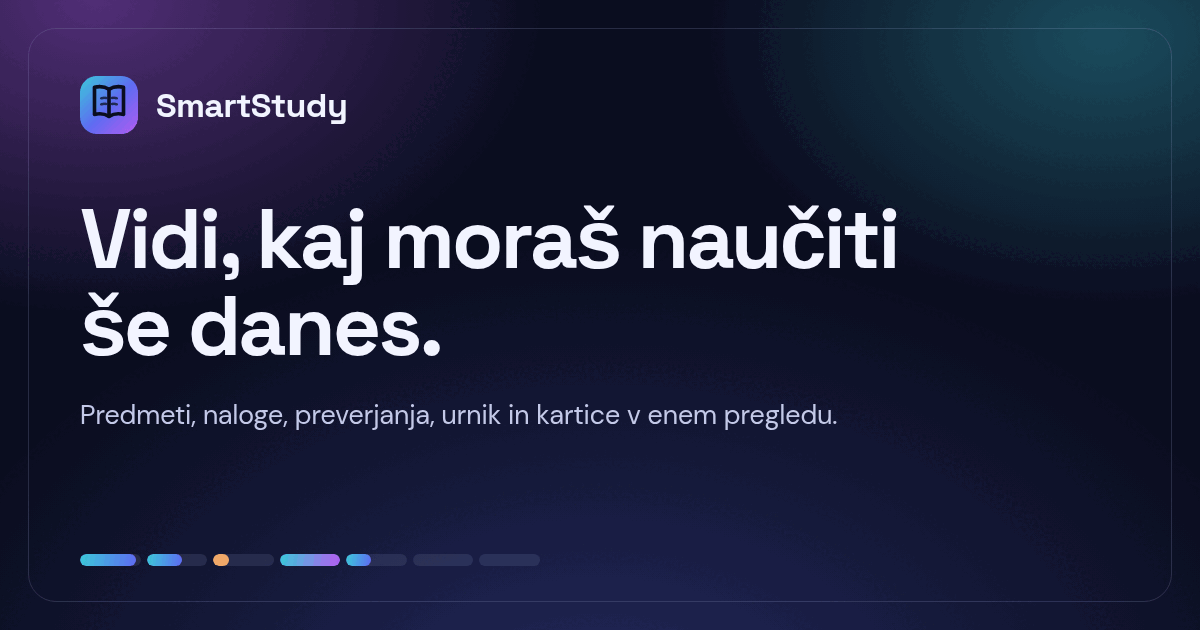
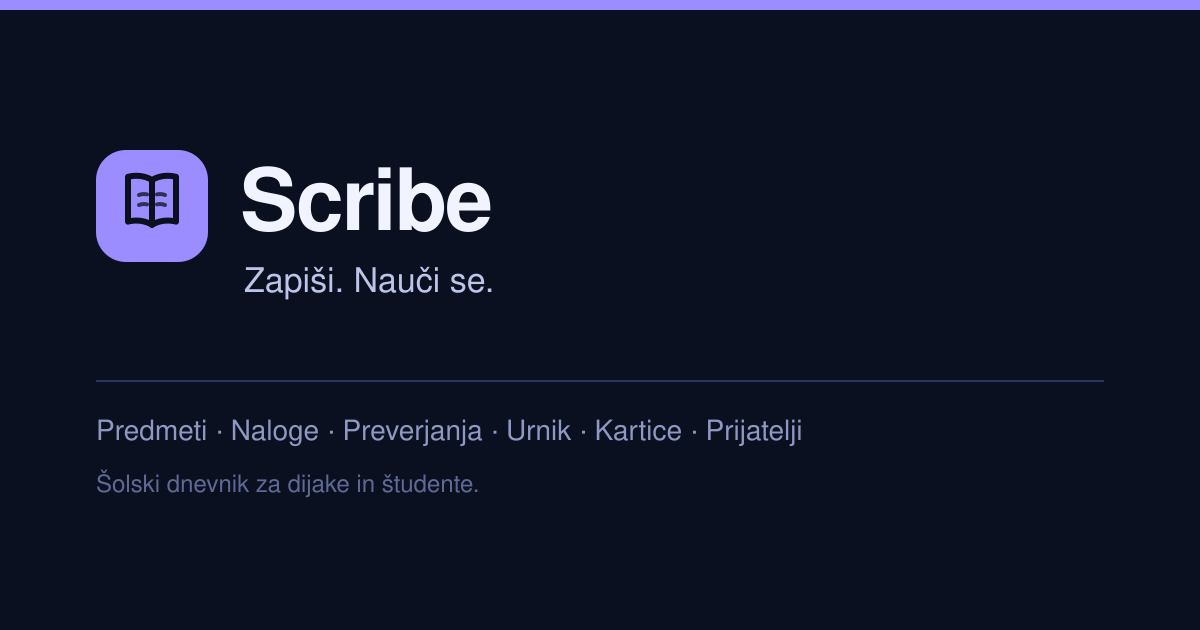
Posodobi SEO in pravne strani za Scribe
- Nova og slika, favicon in ploščica z ravnim ink barvami.
- Meta, kanonski naslov in statični Open Graph na vstopni strani.
- Pravilnik o zasebnosti imenuje obdelovalce, prijateljske kode in brisanje.

diff --git a/src/pages/PrivacyPage.jsx b/src/pages/PrivacyPage.jsx
@@ -14,7 +14,7 @@ export default function PrivacyPage() {
       <LegalProse
         title="Pravilnik o zasebnosti"
         intro="Ta pravilnik pojasnjuje, katere podatke Scribe zbira, zakaj jih zbira in kakšne pravice imaš do njih."
-        updated="21. oktober 2026"
+        updated="22. oktober 2026"
         note="TODO(vsebina): Manjkajo podatki o operaterju, kontaktni e-pošti in regiji hrambe podatkov. Besedilo je pripravljeno, a še ni pravno pregledano."
       >
         <h2>Katere podatke zbiram</h2>
@@ -23,6 +23,12 @@ export default function PrivacyPage() {
           vpišeš. V svoj profil lahko dodaš tudi šolo. Ko začneš uporabljati aplikacijo,
           shranjuješ predmete, naloge, preverjanja, kartice, zapise fokus sej in nastavitve
           videza.
+        </p>
+        <p>
+          Vsak račun dobi tudi svojo <strong>prijateljsko kodo</strong> — šest znakov, s
+          katerimi te sošolci najdejo. Kode drugih uporabnikov Scribe ne izpiše; vidiš
+          le svojo. Ime in začetna črka tistih, ki iščeš sošolca, sta vidna drugim
+          prijavljenim uporabnikom, in sicer samo takrat, ko iščeš po imenu.
         </p>
         <p>
           Gesla se nikoli ne shranjujejo v oblaku v čitljivi obliki — za njih skrbi ponudnik
@@ -62,14 +68,17 @@ export default function PrivacyPage() {
         <h2>Hramba in brisanje</h2>
         <p>
           Podatki ostanejo v tvojem računu, dokler jih ne izbrišeš. Predmete, naloge,
-          preverjanja in kartice izbrišeš v aplikaciji, svoj račun pa lahko odpraviš tako, da
-          izbrišeš svojo uporabniško podatkovno bazo v Firebase.
+          preverjanja in kartice izbrišeš v aplikaciji. Svoj račun odpraviš v Nastavitvah v
+          razdelku »Nevarno območje«: Scribe tedaj izbriše tvoje predmete, naloge,
+          preverjanja, kartice, zapise fokusa, zahteve za prijateljstvo in tvoja sporočila
+          v klepetu ter odjavi tvoj račun. Tega ni mogoče razveljaviti.
         </p>
 
-        <h2>Vaše pravice</h2>
+        <h2>Tvoje pravice</h2>
         <p>
           Imaš pravico do dostopa do svojih podatkov, do njihove poprave in do brisanja.
-          Vse podatke lahko tudi izvoziš v obliki JSON — v Nastavitvah je gumb »Izvozi podatke«.
+          Vse podatke lahko tudi izvoziš v obliki JSON — v Nastavitvah je gumb »Izvozi
+          podatke«. Uvoziš jih lahko nazaj z gumbom »Uvozi podatke«.
         </p>
 
         <h2>Piškotki in sledenje</h2>

diff --git a/index.html b/index.html
@@ -10,6 +10,28 @@
       name="description"
       content="Scribe je šolski dnevnik: predmeti, naloge, preverjanja, urnik, kartice in prijatelji na enem mestu. Zapiši. Nauči se."
     />
+    <link rel="canonical" href="https://scribeslo.vercel.app/" />
+
+    <meta property="og:type" content="website" />
+    <meta property="og:site_name" content="Scribe" />
+    <meta property="og:locale" content="sl_SI" />
+    <meta property="og:title" content="Scribe — tvoj šolski dnevnik" />
+    <meta
+      property="og:description"
+      content="Predmeti, naloge, preverjanja, urnik, kartice in prijatelji na enem mestu. Zapiši. Nauči se."
+    />
+    <meta property="og:url" content="https://scribeslo.vercel.app/" />
+    <meta property="og:image" content="https://scribeslo.vercel.app/scribe-og.png" />
+    <meta property="og:image:alt" content="Scribe — tvoj šolski dnevnik" />
+
+    <meta name="twitter:card" content="summary_large_image" />
+    <meta name="twitter:title" content="Scribe — tvoj šolski dnevnik" />
+    <meta
+      name="twitter:description"
+      content="Predmeti, naloge, preverjanja, urnik, kartice in prijatelji na enem mestu."
+    />
+    <meta name="twitter:image" content="https://scribeslo.vercel.app/scribe-og.png" />
+
     <title>Scribe — tvoj šolski dnevnik</title>
   </head>
   <body>

diff --git a/src/pages/AccessibilityPage.jsx b/src/pages/AccessibilityPage.jsx
@@ -14,7 +14,7 @@ export default function AccessibilityPage() {
       <LegalProse
         title="Dostopnost"
         intro="Scribe je zasnovan tako, da ga lahko uporablja vsak dijak, dijakinja in študent — tudi z bralnikom zaslona, tipkovnico ali povečano sliko."
-        updated="21. oktober 2026"
+        updated="22. oktober 2026"
         note="TODO(vsebina): Ta izjava še ni bila pregledana po standardu WCAG 2.2 AA. Pred objavo jo preveri strokovnjak za dostopnost."
       >
         <h2>Cilj</h2>
@@ -33,6 +33,8 @@ export default function AccessibilityPage() {
           <li>Premiki in animacije se izklopijo, kadar naprava nastavi zmanjšan gibanje — samodejno ali v Nastavitvah.</li>
           <li>Ikone, ki ne sporočajo vsebine same, so označene kot okrasne; gumbi, ki niso besedilni, imajo opis za bralnik zaslona.</li>
           <li>Grafični učni pas in druge slike imajo besedilni opis, ki pove, kaj prikazujejo.</li>
+          <li>Številke, datumi, ure in prijateljske kode so zapisane v monospace pisavi in se zato preberejo v stolpcih.</li>
+          <li>Modali zajamejo fokus, zaprejo se z Esc in fokus vrnejo na gumb, ki jih je odprl.</li>
         </ul>
 
         <h2>Znane omejitve</h2>

diff --git a/src/pages/ImprintPage.jsx b/src/pages/ImprintPage.jsx
@@ -14,7 +14,7 @@ export default function ImprintPage() {
       <LegalProse
         title="Impressum"
         intro="Podatki o operaterju spletnega mesta in osebi, odgovorni za njegovo vsebino."
-        updated="21. oktober 2026"
+        updated="22. oktober 2026"
         note="TODO(vsebina): Ime operaterja, naslov, davčna številka in kontaktna e-pošta še niso določeni. Dopolni, preden objaviš."
       >
         <h2>Operater spletnega mesta</h2>
@@ -43,7 +43,8 @@ export default function ImprintPage() {
         <h2>Platforma in odločanje o pristojnosti</h2>
         <p>
           Spletno mesto je objavljeno na Vercelu in GitHub Pages. Za dostop do spletnega mesta
-          je odgovoren ponudnik gostovanja, pri katerem je mesto registrirano.
+          je odgovoren ponudnik gostovanja, pri katerem je mesto registrirano. Podatke v
+          oblaku obdeluje Google Firebase.
         </p>
       </LegalProse>
     </SiteShell>

diff --git a/src/hooks/useSeo.js b/src/hooks/useSeo.js
@@ -48,7 +48,7 @@ export function useSeo({ title, description = SITE_DESCRIPTION, path = '/', type
     upsertMeta('meta[property="og:image"]', { property: 'og:image', content: OG_IMAGE });
     upsertMeta('meta[property="og:image:width"]', { property: 'og:image:width', content: '1200' });
     upsertMeta('meta[property="og:image:height"]', { property: 'og:image:height', content: '630' });
-    upsertMeta('meta[property="og:image:alt"]', { property: 'og:image:alt', content: 'Scribe — vidi, kaj moraš naučiti še danes.' });
+    upsertMeta('meta[property="og:image:alt"]', { property: 'og:image:alt', content: 'Scribe — tvoj šolski dnevnik.' });
 
     upsertMeta('meta[name="twitter:card"]', { name: 'twitter:card', content: 'summary_large_image' });
     upsertMeta('meta[name="twitter:title"]', { name: 'twitter:title', content: fullTitle });
